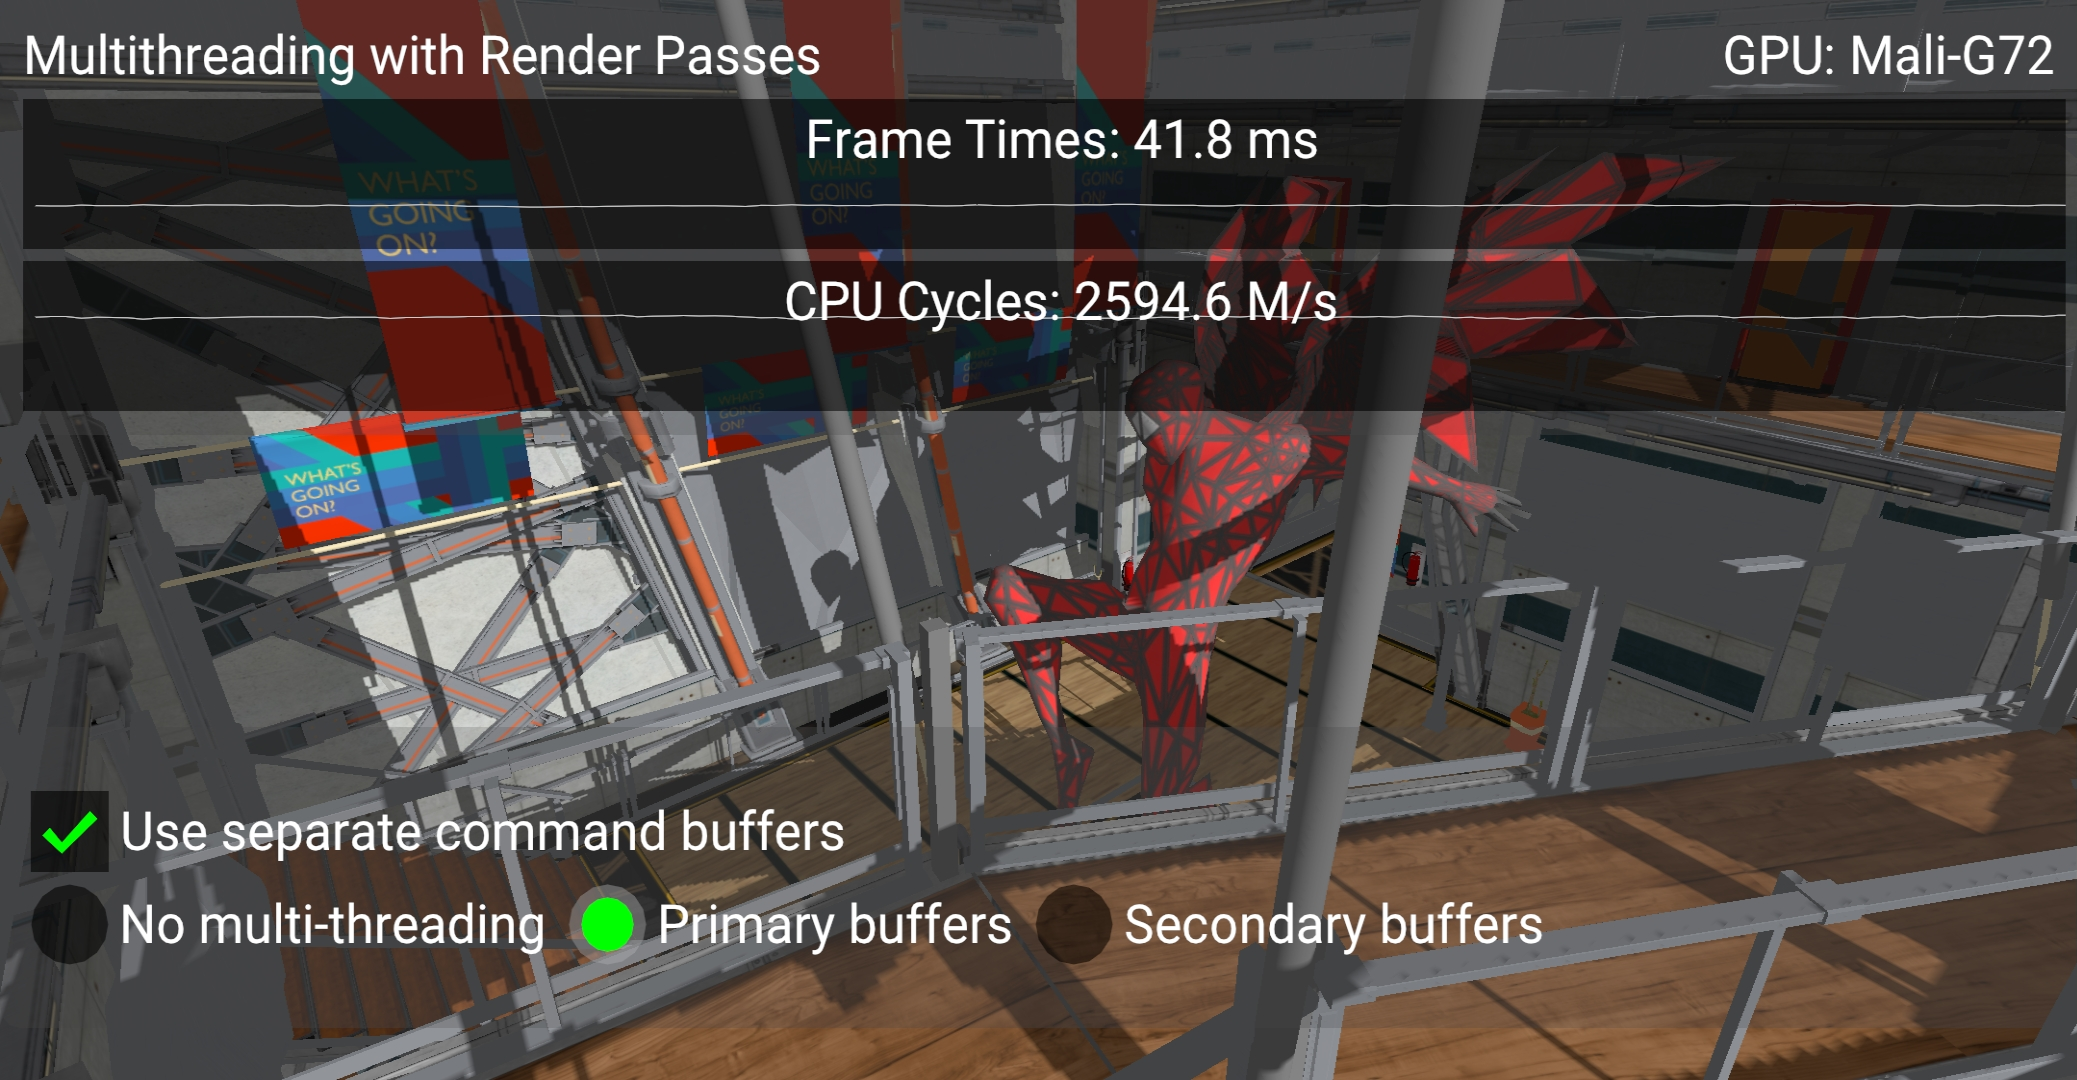
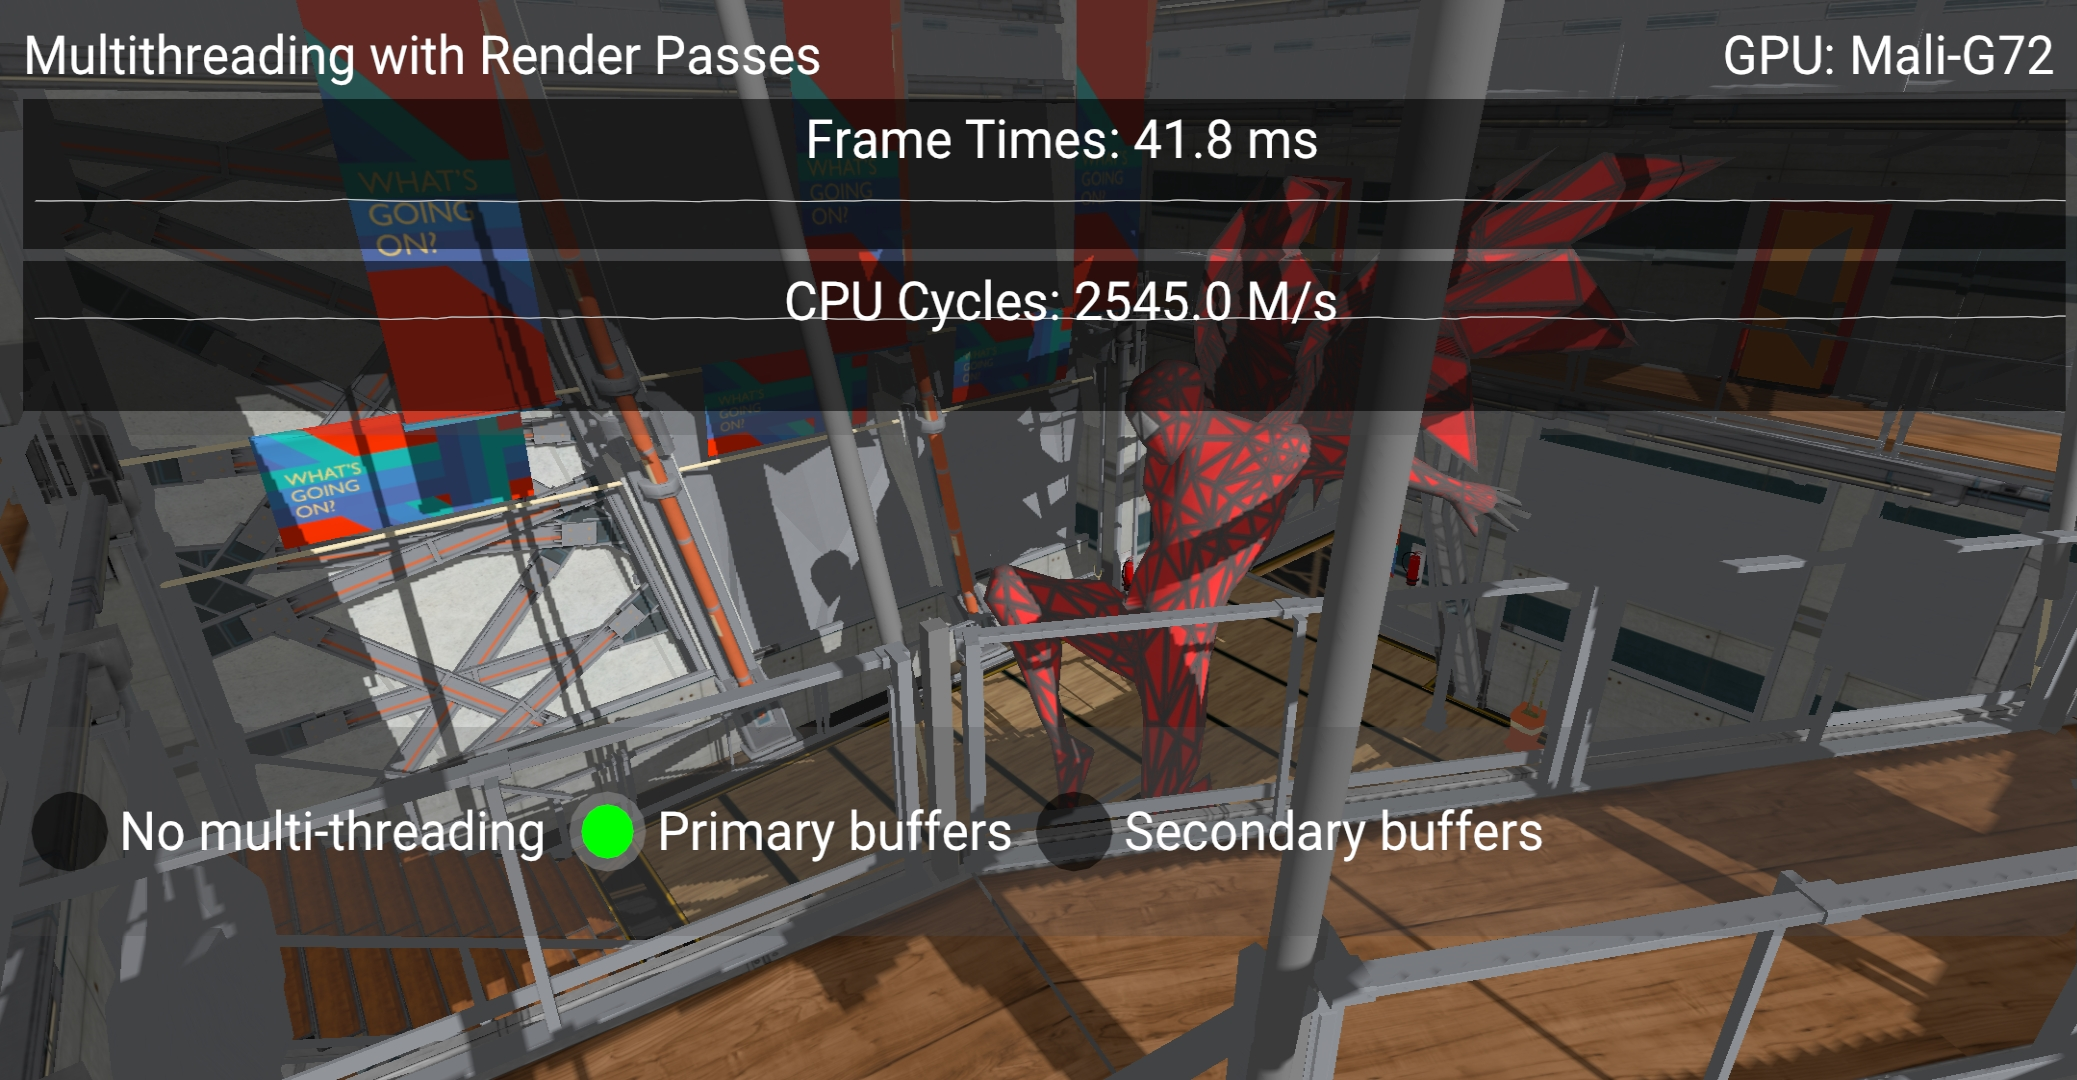
Updated screenshots

diff --git a/samples/performance/multithreading_render_passes/multithreading_render_passes_tutorial.md b/samples/performance/multithreading_render_passes/multithreading_render_passes_tutorial.md
@@ -62,11 +62,11 @@ Below are screenshots of the sample running on a phone with a Mali G72 GPU:
 
 ![Single Thread](images/single_thread.png)
 
-Using two threads gives a 10ms improvement:
+Using two threads gives a 8.8ms improvement:
 
 ![Primary Command Buffers](images/primary_buffers.png)
 
-And using secondary command buffers helps to save 50M CPU cycles each second and reduce frame time by 4%:
+And using secondary command buffers helps to save 40M CPU cycles each second and reduce frame time by 5%:
 
 ![Secondary Command Buffers](images/secondary_buffers.png)
 
